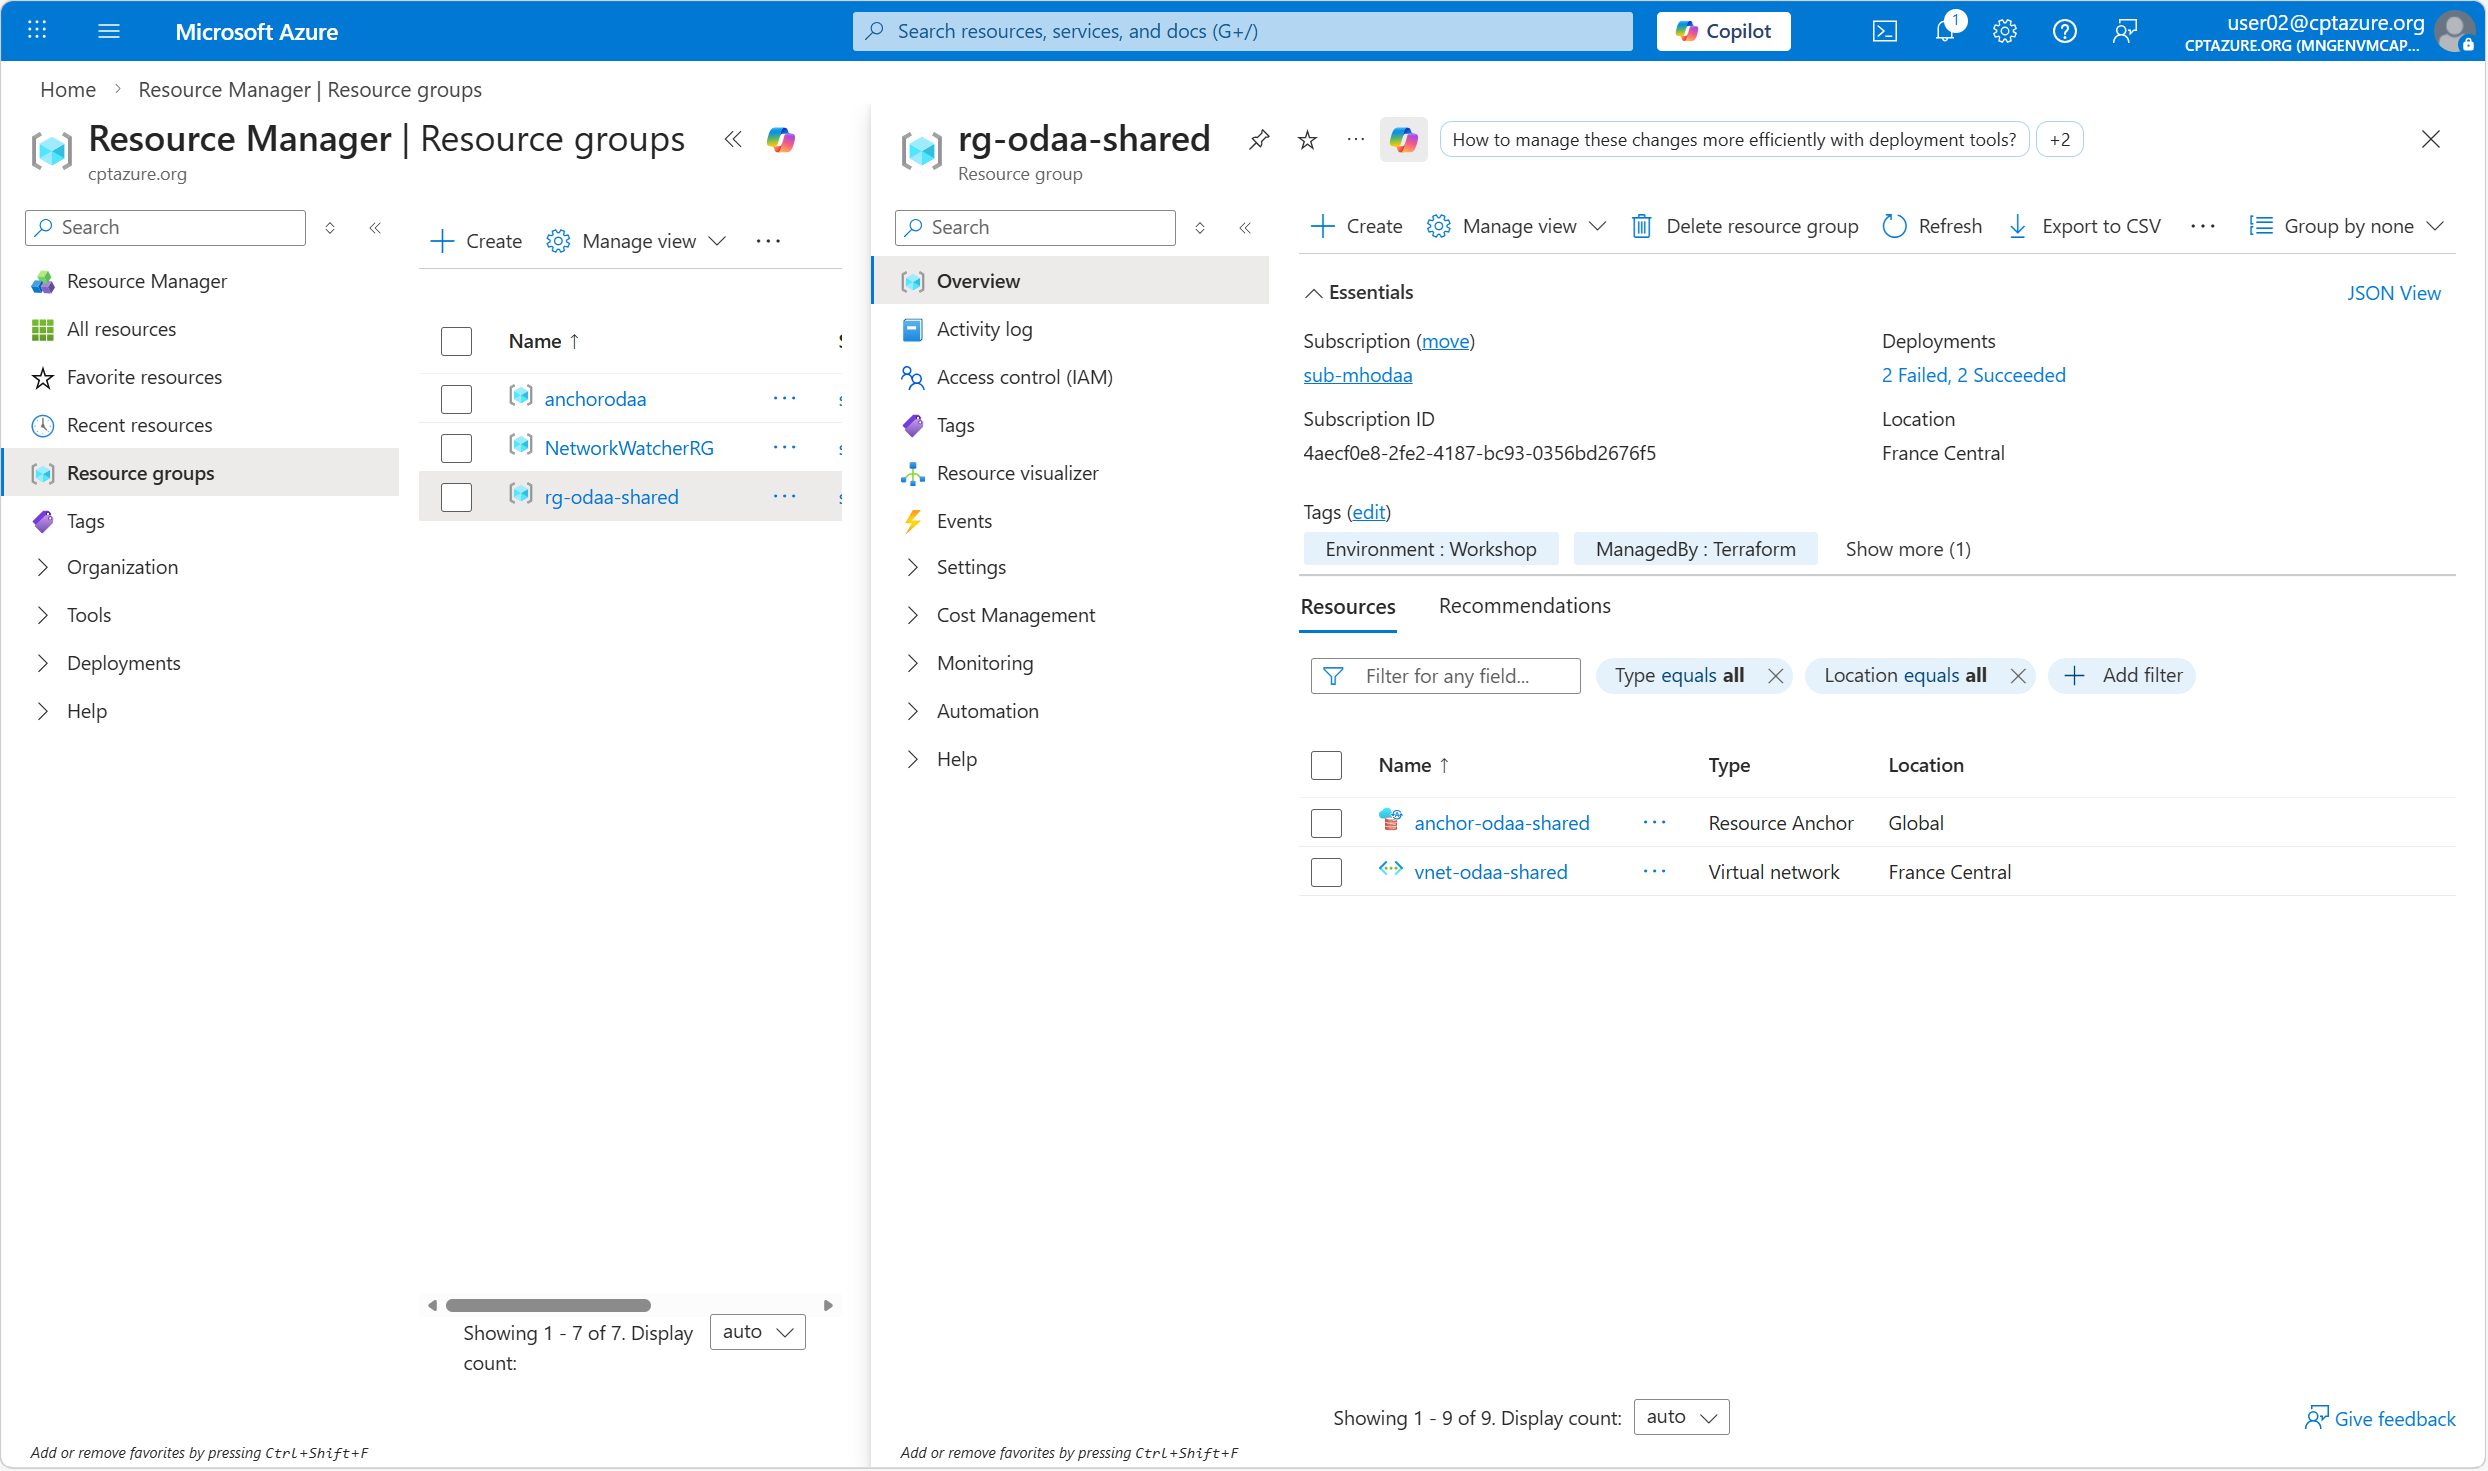
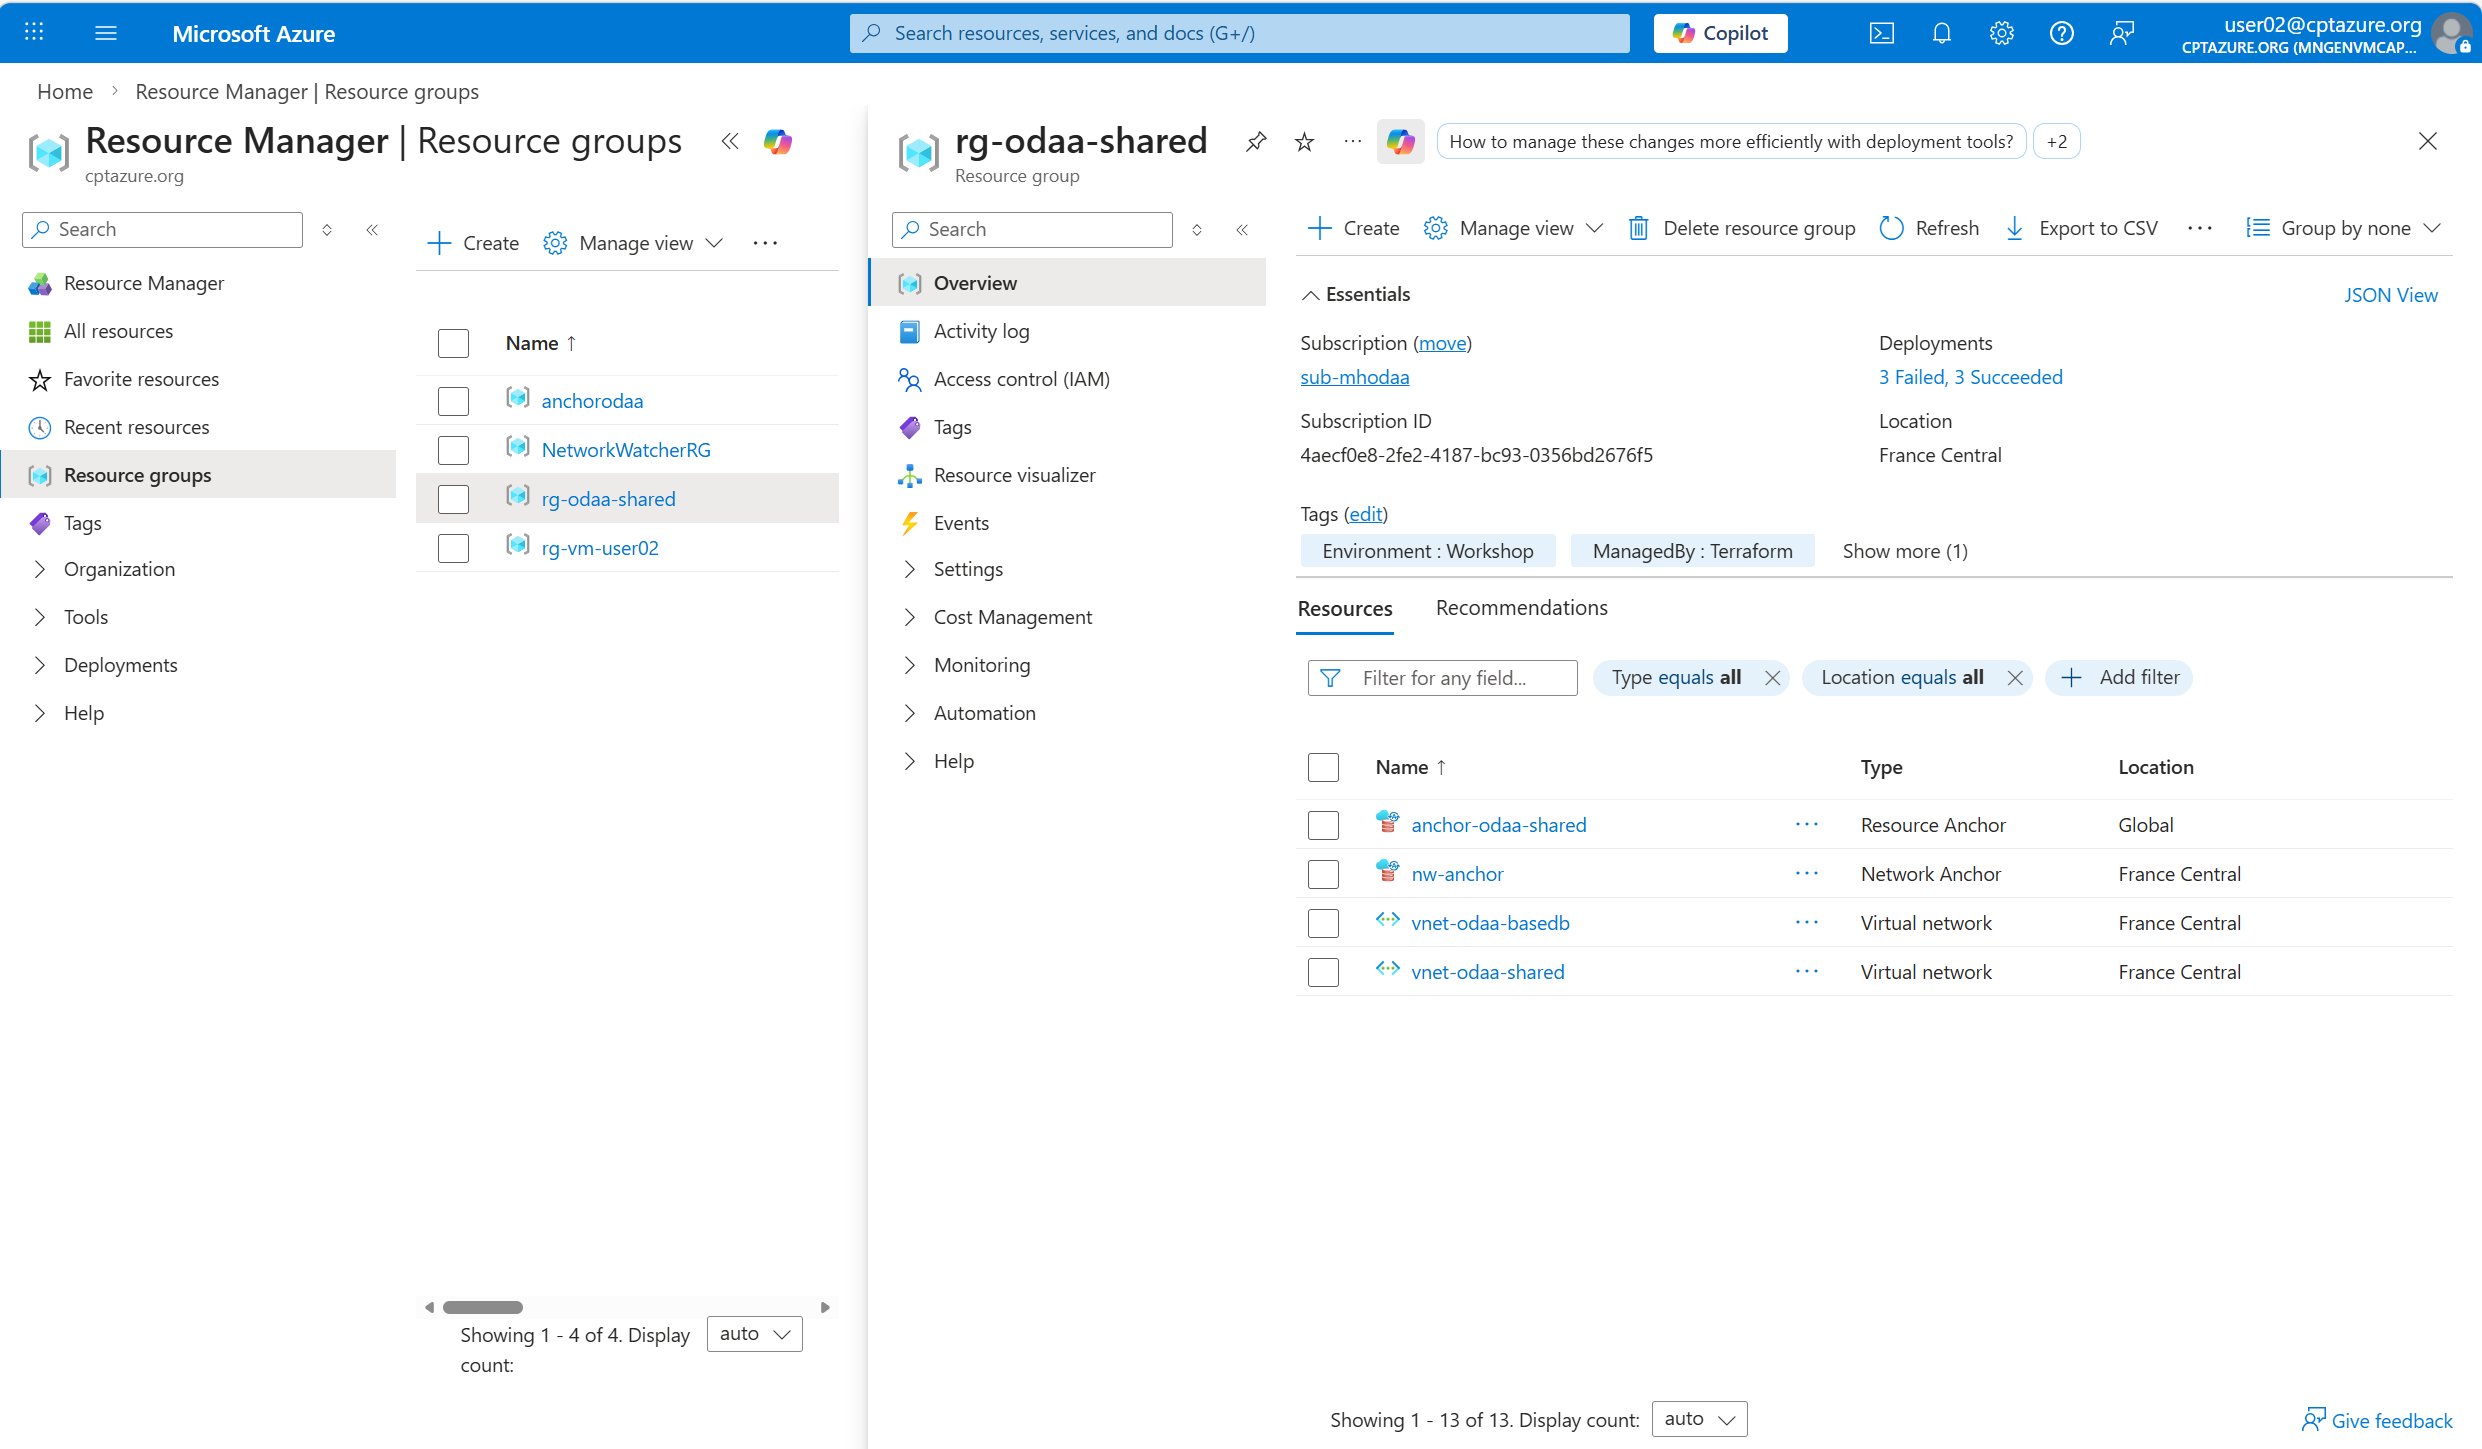
Update docs

diff --git a/03-Azure/01-03-Infrastructure/10_Oracle_on_Azure/walkthrough/setup-user-account/setup-user-account.md b/03-Azure/01-03-Infrastructure/10_Oracle_on_Azure/walkthrough/setup-user-account/setup-user-account.md
@@ -83,7 +83,7 @@ After you successfully logged into the Azure portal a first check could be the v
 
 ![find azure resource group](media/find_resource_group.png)
 
-#### One resource group is required for this Microhack: "rg-odaa-shared"
+#### Two resource groups are required for this Microhack: "rg-odaa-shared" and "rg-vm-[your user number]"
 
 ![see your azure resource group](media/resource_group_list.png)
 
@@ -91,10 +91,9 @@ After you successfully logged into the Azure portal a first check could be the v
 
 It should look similar to this for Resource Group rg-odaa-shared.
 
-<!-- ![see your azure resource group](media/rg_odaa_resources.png)
-
-Should look simiar to this one for Resource Group odaa-user[your user number] -->
+> **Note:** The screenshot below shows the initial deployment state. Additional resources will be provisioned as you progress through the subsequent challenges of this Microhack.
 
 ![see your azure resource group](media/odaa_user_resources.png)
+
  
 [Back to workspace README](../../README.md)

diff --git a/03-Azure/01-03-Infrastructure/10_Oracle_on_Azure/walkthrough/create-odaa-adb/create-odaa-adb.md b/03-Azure/01-03-Infrastructure/10_Oracle_on_Azure/walkthrough/create-odaa-adb/create-odaa-adb.md
@@ -79,8 +79,8 @@ You find under the sub-menu Settings the menu Subnets. In the menu Subnets, you 
 ### Network Tab
 
 Choose for the connectivity the Access type: Managed private virtual network IP only.
-Virual Network: vnet-odaa-shared
-Subnet: snet-odaa-delegated
+- Virtual Network: vnet-odaa-shared
+- Subnet: snet-odaa-delegated
 
 ![An image of the Oracle Autonomous database setting is shown here.](media/adb12.png)
 
